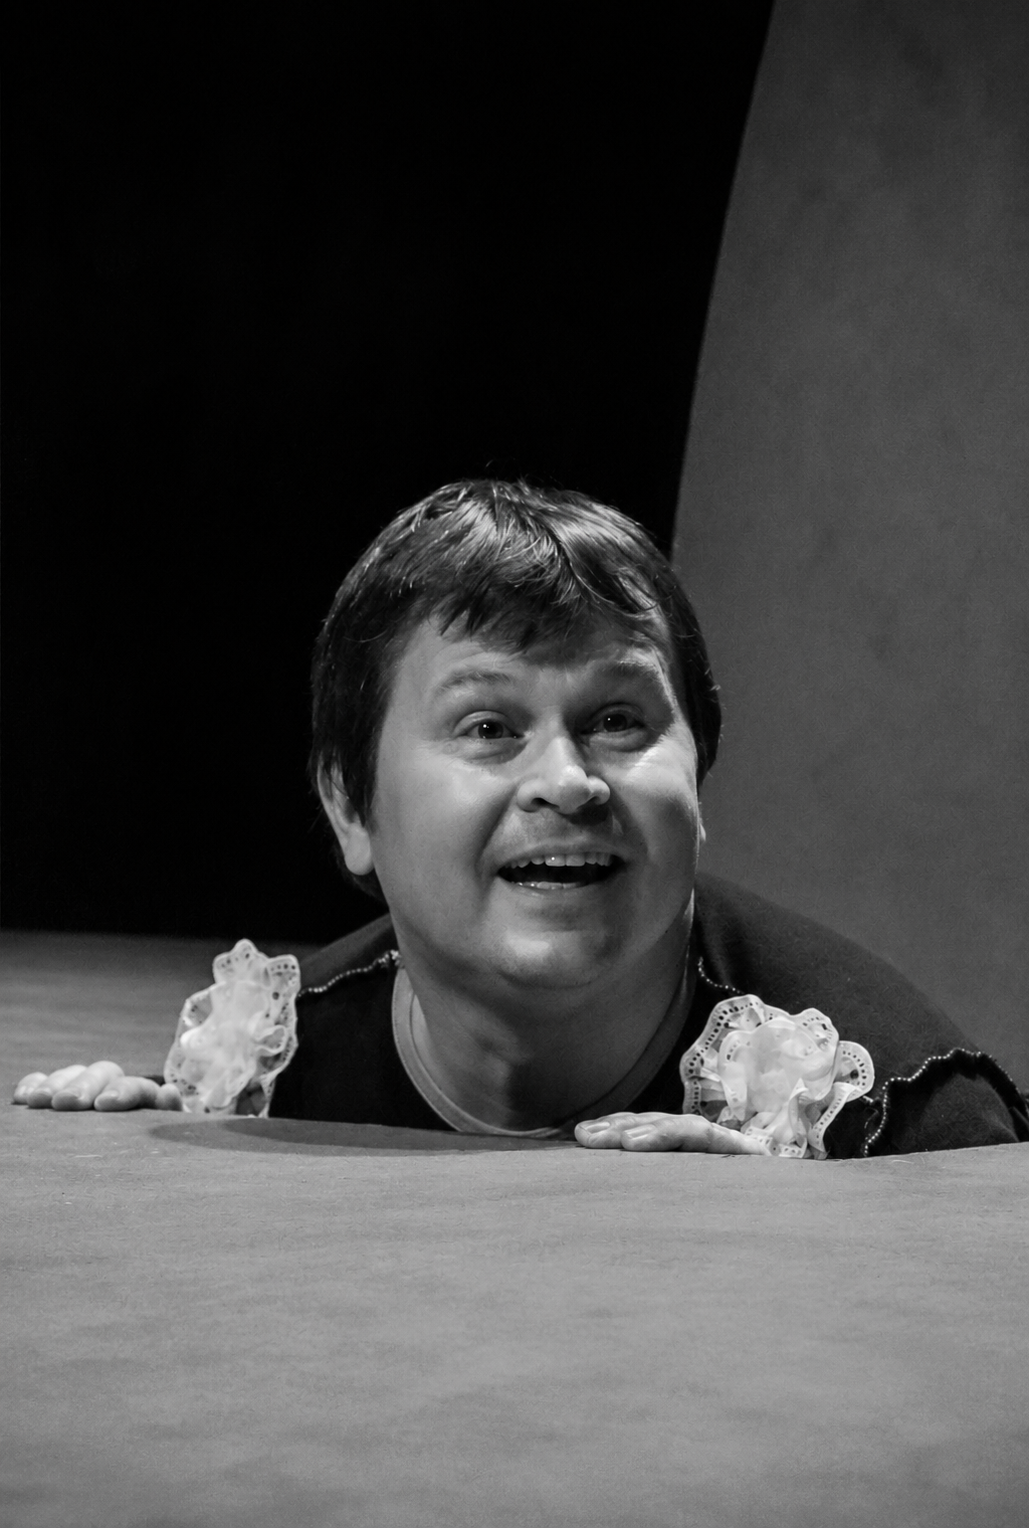
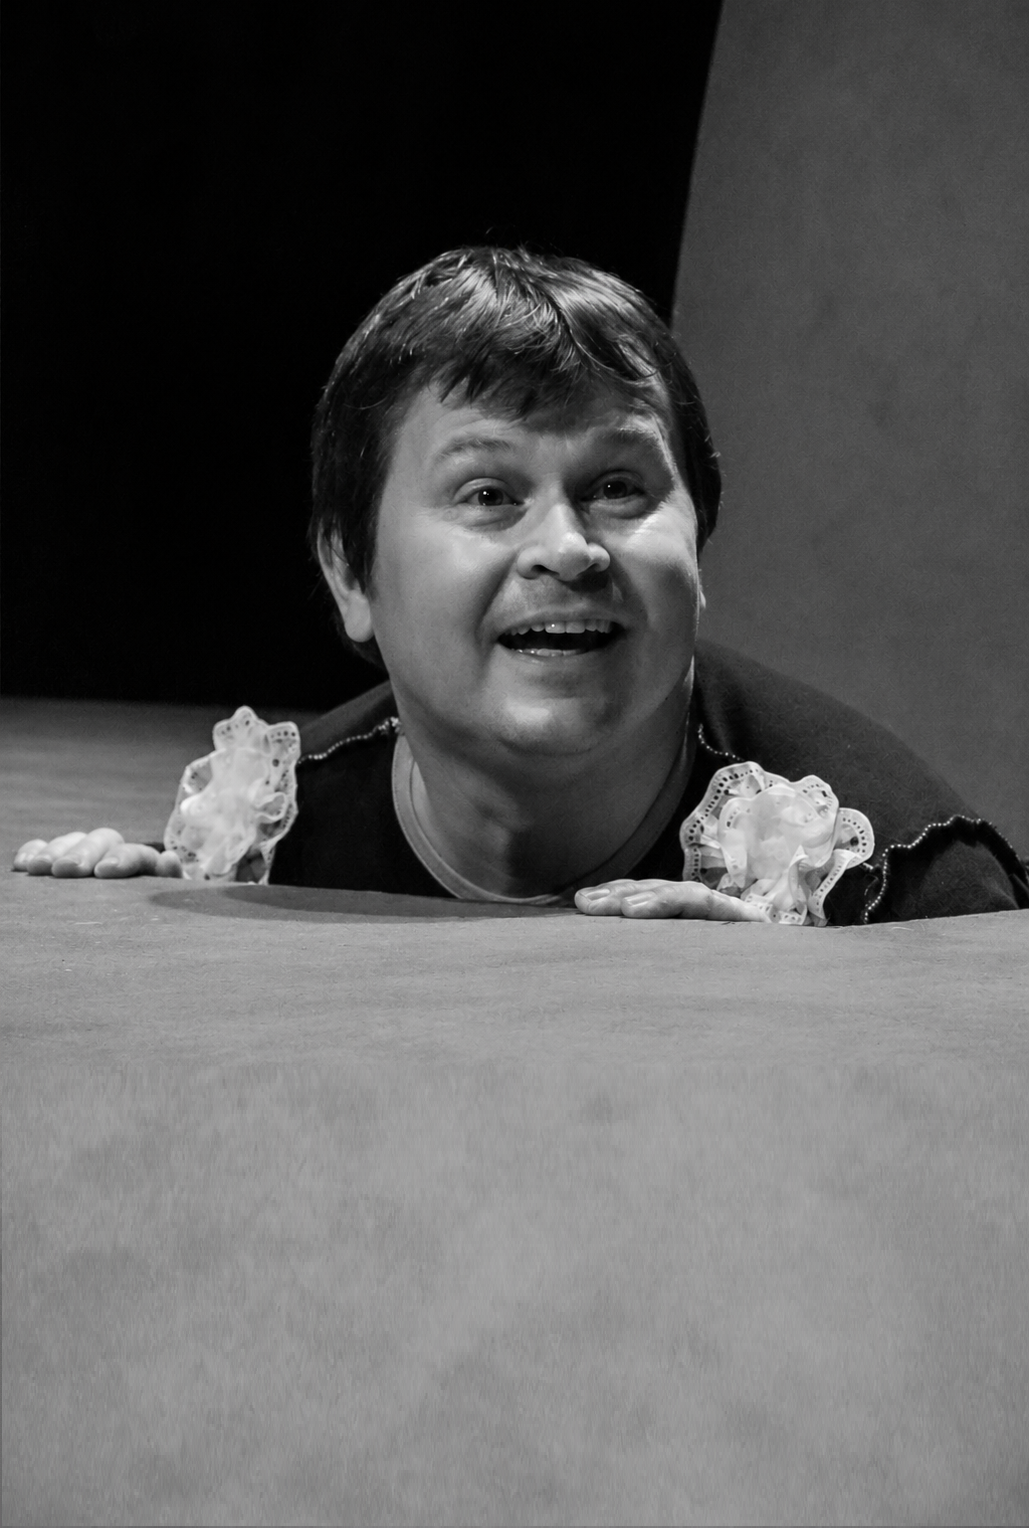
foto changes

diff --git a/src/content/voorstellingen/de-olifantman.md b/src/content/voorstellingen/de-olifantman.md
@@ -16,8 +16,9 @@ schedule:
   - time: 23 November 2025 - 17:15 (Dinerevent)
 image: /images/olifantman.jpg
 ticket_link: https://be.ticketgang.eu/orgFrameSaleNew.php?org=204637&event=165831#
-ticket_label: Tickets Dinerevent
+ticket_label: Tickets
 ---
+
 De Olifantman is het waargebeurde verhaal van Joseph 'John' Merrick, een man met ernstige misvormingen die in de 19de eeuw als kermisattractie werd opgevoerd. Hij ging letterlijk en figuurlijk zwaar gebukt onder zijn misvormingen.
 
 John Merrick wordt door zijn manager beroofd en gaat op straat tevergeefs op zoek naar hulp. Uitgeput belandt hij in het Royal London Hospital waar hij tot het einde van zijn leven verblijft onder de hoede van dokter Treves die gaandeweg de mens achter het afzichtelijke uiterlijk ontdekt.
